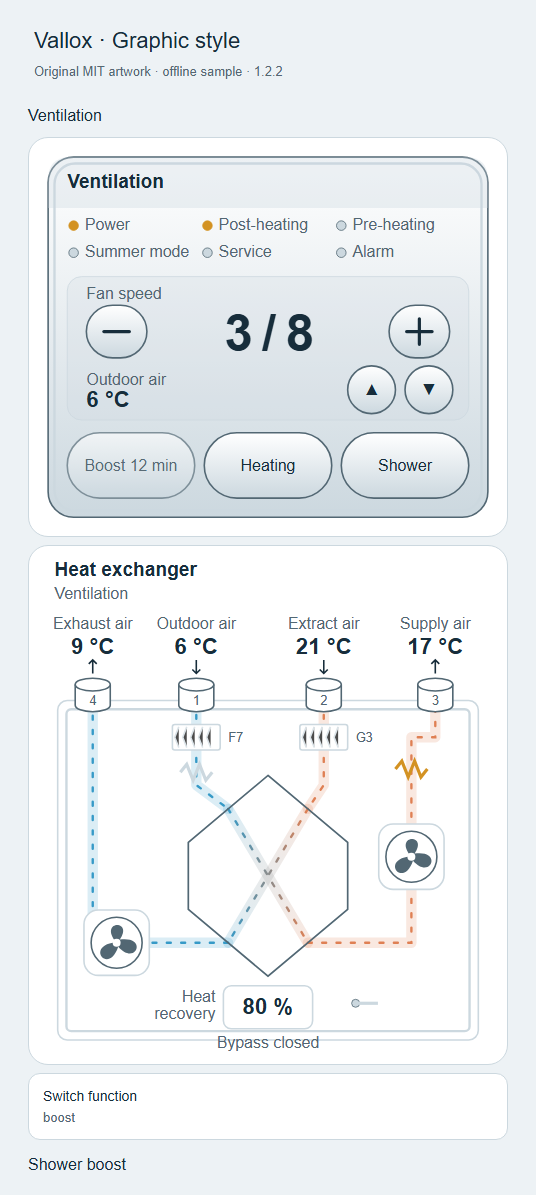
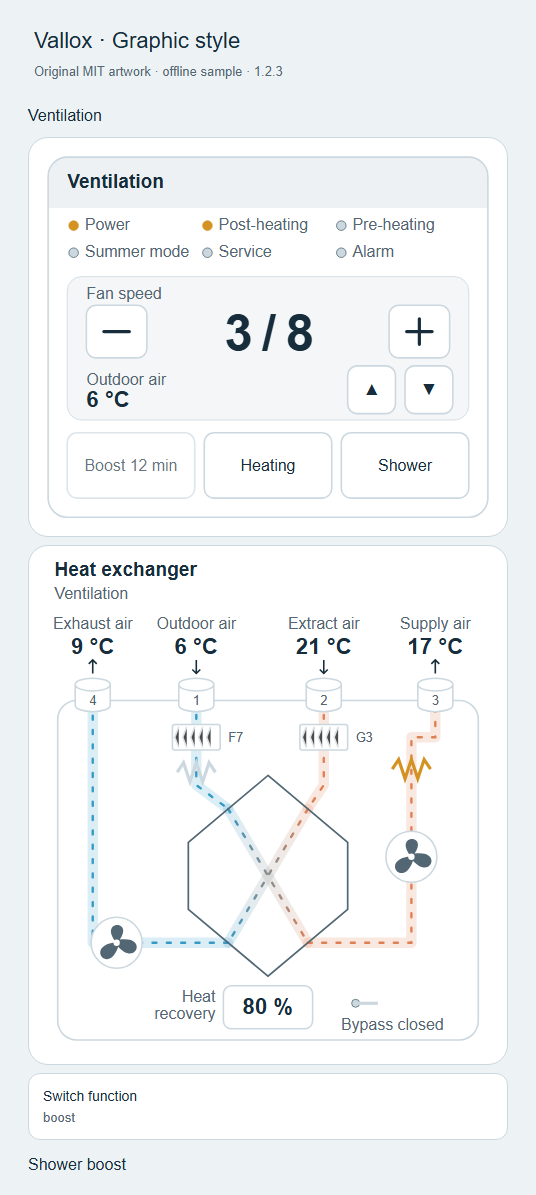
Vallox Dashboard 1.2.3: bring back the 1.2.1 look, keep the 1.2.2 sizing and heat-exchanger shape

diff --git a/dist/vallox-dashboard.js b/dist/vallox-dashboard.js
@@ -8,7 +8,7 @@
  *   - vallox (Home Assistant core, Vallox MV units over the network)
  * Built-in cards plus original inline SVG graphics. MIT licensed.
  */
-const VALLOX_DASHBOARD_VERSION = "1.2.2";
+const VALLOX_DASHBOARD_VERSION = "1.2.3";
 
 const TEXT = {
   en: {
@@ -451,11 +451,8 @@ const GRAPHIC_CSS = `
     border:1px solid var(--line); box-shadow:none; container-type:inline-size; }
   svg { display:block; width:100%; height:auto; font-family:inherit; }
   text { fill:currentColor; font-size:20px; } .muted { fill:var(--muted); font-size:20px; }
+  .duct { fill:var(--surface); stroke:var(--line); stroke-width:2; }
   .body,.button { fill:var(--surface); stroke:var(--line); stroke-width:2; }
-  .housing { fill:url(#housing-depth); stroke:var(--muted); stroke-width:2; }
-  .bezel { fill:none; stroke:var(--line); stroke-width:3; }
-  .button { fill:url(#button-depth); stroke:var(--muted); }
-  .duct { fill:var(--surface); stroke:var(--muted); stroke-width:2; }
   .strip { fill:var(--line); opacity:.35; } .lcd { fill:var(--line); fill-opacity:.22; stroke:var(--line); }
   .big { font-size:64px; font-weight:600; letter-spacing:-3px; }
   .title { font-size:24px; font-weight:600; } .value { font-size:28px; font-weight:600; }
@@ -485,7 +482,7 @@ const svgText = (x, y, text, cls = "", anchor = "start") =>
   `<text x="${x}" y="${y}" class="${cls}" text-anchor="${anchor}">${escapeGraphic(text)}</text>`;
 function graphicButton(x, y, w, h, label, action, disabled = false, glyph = label) {
   return `<g role="button" tabindex="${disabled ? -1 : 0}" aria-label="${escapeGraphic(label)}" aria-disabled="${disabled}" data-action="${action}">
-    <rect class="button" x="${x}" y="${y}" width="${w}" height="${h}" rx="${Math.min(w, h) / 2}"/>
+    <rect class="button" x="${x}" y="${y}" width="${w}" height="${h}" rx="12"/>
     ${["increase", "decrease"].includes(action)
       ? `<path class="control-symbol" d="M${x + w / 2 - 16} ${y + h / 2}h32${action === "increase" ? `M${x + w / 2} ${y + h / 2 - 16}v32` : ""}"/>`
       : svgText(x + w / 2, y + h / 2 + 7, glyph, "", "middle")}</g>`;
@@ -510,10 +507,7 @@ function renderControllerSvg(m) {
   const displayY = 106 + Math.ceil(leds.length / 3) * 34;
   const actionsY = displayY + 180 + 16;
   const height = actionsY + 82 + 48;
-  let content = `<defs>
-    <linearGradient id="housing-depth" x2="0" y2="1"><stop stop-color="var(--surface)"/><stop offset="1" stop-color="var(--line)"/></linearGradient>
-    <linearGradient id="button-depth" x2="0" y2="1"><stop stop-color="var(--surface)"/><stop offset="1" stop-color="var(--line)"/></linearGradient>
-    </defs><rect class="housing" x="24" y="24" width="552" height="${height - 48}" rx="32"/><rect class="bezel" x="32" y="32" width="536" height="${height - 64}" rx="26"/>
+  let content = `<rect class="body" x="24" y="24" width="552" height="${height - 48}" rx="24"/>
     <path class="strip" d="M52 24H548Q576 24 576 52V88H24V52Q24 24 52 24Z"/>`
     + svgText(48, 63, m.unit.name, "title");
   content += leds.map(([, label, active], i) => {
@@ -521,7 +515,7 @@ function renderControllerSvg(m) {
     return `<circle cx="${x}" cy="${y - 6}" r="6" class="led ${active ? "lit" : ""}"><title>${escapeGraphic(label)}</title></circle>`
       + svgText(x + 14, y, active === null ? `${label} —` : label, "muted");
   }).join("");
-  content += `<g transform="translate(0 ${displayY - 174})"><rect class="lcd recessed-lcd" x="48" y="174" width="504" height="180" rx="18"/>`
+  content += `<g transform="translate(0 ${displayY - 174})"><rect class="lcd" x="48" y="174" width="504" height="180" rx="18"/>`
     + svgText(72, 202, e.climate ? t.fan_speed : g.core_fan, "muted")
     + svgText(300, 267, e.climate ? `${m.level ?? "—"} / ${m.max}` :
       (m.fanPercentage ?? m.formatted("fan_speed", " %")), "big", "middle");
@@ -547,8 +541,7 @@ function renderExchangerSvg(m) {
   const { e, t, g } = m, bypass = m.on("summer_mode");
   const cell = "M300 288L400 372V456L300 540L200 456V372Z";
   let content = svgText(32, 38, g.exchanger, "title") + svgText(32, 66, m.unit.name, "muted")
-    + '<rect class="body unit-casing" x="36" y="194" width="528" height="426" rx="12"/>'
-    + '<rect class="bezel" x="47" y="205" width="506" height="404" rx="6"/>'
+    + '<rect class="body unit-casing" x="36" y="194" width="528" height="426" rx="24"/>'
     + '<defs><linearGradient id="extract-gradient" gradientUnits="userSpaceOnUse" x1="350" y1="330" x2="250" y2="498"><stop stop-color="var(--warm)"/><stop offset="1" stop-color="var(--cold)"/></linearGradient>'
     + '<linearGradient id="supply-gradient" gradientUnits="userSpaceOnUse" x1="250" y1="330" x2="350" y2="498"><stop stop-color="var(--cold)"/><stop offset="1" stop-color="var(--warm)"/></linearGradient></defs>'
     + '<path data-component="cell" class="cell" d="' + cell + '"/>';
@@ -561,8 +554,8 @@ function renderExchangerSvg(m) {
     + stream("exhaust", "M250 498H80V194", "cold", "motor_out")
     + stream("extract", "M350 330L250 498", "", "motor_out", true);
   if (bypass) {
-    // Keep the inlet beside the cell, then pass below the recovery badge to the bottom flap.
-    content += stream("supply", "M170 300V550H100V612H410V574H480", "cold", "motor_in", false, 'data-bypass-route="supply"');
+    // One right-angle crossing of the exhaust lane; keep parallel lanes well apart.
+    content += stream("supply", "M170 300V574H480", "cold", "motor_in", false, 'data-bypass-route="supply"');
   } else content += stream("supply", "M250 330L350 498", "", "motor_in", true);
   const ducts = [["exhaust",4,80,false],["outdoor",1,210,true],["extract",2,370,true],["supply",3,510,false]];
   for (const [role, number, x, incoming] of ducts) {
@@ -579,17 +572,17 @@ function renderExchangerSvg(m) {
   };
   if (e.outdoor) content += filter("F7",210,240,"supply");
   if (e.extract) content += filter("G3",370,240,"extract");
-  const fan = (role, x, y, streamName) => !e[role] ? "" : '<g data-fan="' + role + '" data-on-stream="' + streamName + '" transform="translate(' + x + ' ' + y + ')"><rect class="body" x="-41" y="-41" width="82" height="82" rx="18"/>'
-    + '<circle class="duct" r="32"/><g data-motor="' + role + '" class="' + (m.running(role) ? 'spin' : 'stopped') + '"><path fill="var(--muted)" d="M0 0C-24-28 22-30 4-4C40-9 24 30 2 5C-10 40-38 6-5 0Z"/></g><circle r="5" fill="var(--surface)"/></g>';
+  const fan = (role, x, y, streamName) => !e[role] ? "" : '<g data-fan="' + role + '" data-on-stream="' + streamName + '" transform="translate(' + x + ' ' + y + ')"><circle class="body" r="32" fill="var(--surface)"/>'
+    + '<g data-motor="' + role + '" class="' + (m.running(role) ? 'spin' : 'stopped') + '"><path fill="var(--muted)" d="M0 0C-24-28 22-30 4-4C40-9 24 30 2 5C-10 40-38 6-5 0Z"/></g><circle r="4" fill="var(--surface)"/></g>';
   content += fan("motor_in",480,390,"supply") + fan("motor_out",110,498,"extract")
     + '<path class="cell-outline" d="' + cell + '"/>';
-  const heater = (role, x, y) => !e[role] ? "" : '<g data-on-stream="supply"><title>' + escapeGraphic(t[role]) + '</title><path data-heater="' + role + '" class="heater ' + (m.on(role) ? 'hot' : '') + '" d="M' + (x-20) + ' ' + y + 'l8 -10 8 20 8 -20 8 20 8 -10"/></g>';
+  const heater = (role, x, y) => !e[role] ? "" : '<g data-on-stream="supply"><title>' + escapeGraphic(t[role]) + '</title><path data-heater="' + role + '" class="heater ' + (m.on(role) ? 'hot' : '') + '" d="M' + (x-24) + ' ' + y + 'l8 -12 8 24 8 -24 8 24 8 -24 8 12"/></g>';
   content += heater("front_heating",210,284) + heater("post_heating",480,280);
-  if (e.efficiency || [e.outdoor,e.extract,e.exhaust].every(Boolean)) content += '<g aria-label="' + escapeGraphic(t.efficiency) + '"><rect class="cell" x="244" y="552" width="112" height="54" rx="10"/>'
+  if (!bypass && (e.efficiency || [e.outdoor,e.extract,e.exhaust].every(Boolean))) content += '<g aria-label="' + escapeGraphic(t.efficiency) + '"><rect class="cell" x="244" y="552" width="112" height="54" rx="10"/>'
     + g.recovery_label.map((label,i) => svgText(234,572+i*22,label,"recovery-label","end")).join("")
     + svgText(300,587,m.efficiency === null ? "—" : Math.round(m.efficiency)+" %","value","middle") + '</g>';
   if (e.summer_mode) content += '<g data-bypass="' + (bypass ? 'open' : 'closed') + '"><circle class="led" cx="410" cy="574" r="5"/><path class="heater ' + (bypass ? 'hot' : '') + '" d="' + (bypass ? 'M410 574l22 -20' : 'M410 574h28') + '"/></g>'
-    + svgText(300,630,m.value("summer_mode") === null ? g.bypass + " —" : bypass ? g.bypass_open : g.bypass_closed,"muted","middle");
+    + svgText(bypass ? 300 : 456,608,m.value("summer_mode") === null ? g.bypass + " —" : bypass ? g.bypass_open : g.bypass_closed,"muted","middle");
   if (m.config.show_status !== false) {
     if (e.climate || e.fan_speed || e.fan) content += '<g aria-label="' + escapeGraphic(t.fan_speed) + '">' + svgText(32,655,(e.climate ? (m.level ?? "—")+" / "+m.max : m.fanPercentage ?? m.formatted("fan_speed"," %")),"muted") + '</g>';
     if (m.boost && m.config.show?.boost_remaining !== false) content += svgText(568,655,g.boost+' · '+(e.boost_remaining ? m.formatted("boost_remaining",' '+t.minutes) : g.active),"muted","end");

diff --git a/tools/render/index.html b/tools/render/index.html
@@ -21,7 +21,7 @@
   .heading { font-size:16px; margin:8px 0 4px; }
   #actions { font-size:12px; margin:16px 6px; }
 </style>
-<header><h1>Vallox · Graphic style</h1><p>Original MIT artwork · offline sample · 1.2.2</p></header>
+<header><h1>Vallox · Graphic style</h1><p>Original MIT artwork · offline sample · 1.2.3</p></header>
 <main id="cards"></main><div id="actions" role="status"></div>
 <script src="sample-data.js"></script>
 <script src="../../dist/vallox-dashboard.js"></script>

diff --git a/README.md b/README.md
@@ -4,7 +4,7 @@
 [![Release](https://img.shields.io/github/v/release/silviuk/vallox-dashboard.svg)](https://github.com/silviuk/vallox-dashboard/releases)
 [![Validate](https://github.com/silviuk/vallox-dashboard/actions/workflows/validate.yml/badge.svg)](https://github.com/silviuk/vallox-dashboard/actions/workflows/validate.yml)
 
-A Lovelace UI for **Vallox ventilation units** (MVHR / heat-recovery ventilation). Current release: **1.2.1**.
+A Lovelace UI for **Vallox ventilation units** (MVHR / heat-recovery ventilation). Current release: **1.2.3**.
 
 It ships as **section, view and dashboard strategies** under `custom:vallox-ventilation`. The UI discovers your entities and skips anything missing or disabled, so there is nothing you have to wire up by hand. The default style uses built-in Home Assistant cards (tile, heading, button, history-graph, markdown). An opt-in graphic style adds one bundled custom card with original inline SVG artwork.
 
@@ -34,7 +34,7 @@ Supported integrations (auto-discovered):
 - **Temperature flow strip:** outdoor → supply, heat recovery, extract → exhaust, when all four temperatures exist. Defaults on for units that already expose 1.2 extras; older units keep their original layout unless you opt in.
 - **Optional shower boost:** timed fan-level buttons, plus countdown and cancel while active, when the package entities exist.
 - **Optional auto humidity boost:** enable toggle and helper tiles when those helpers exist.
-- **Graphic style (1.2.2):** digital controller panel and heat-exchanger diagram (see below).
+- **Graphic style (1.2.3):** digital controller panel and heat-exchanger diagram (see below).
 - English and German labels, taken from your Home Assistant language. Light and dark themes follow HA CSS variables.
 
 ## Installation
@@ -209,7 +209,7 @@ You can also generate one for your own entities in the browser console of your d
 
 ## Graphic style
 
-Add `style: graphic` to any section, view or dashboard strategy (1.2.0+; phone layout and artwork updated in 1.2.2):
+Add `style: graphic` to any section, view or dashboard strategy (1.2.0+; phone layout and artwork updated in 1.2.3):
 
 ```yaml
 strategy:
@@ -245,6 +245,7 @@ The card picker lists **Vallox graphic**; change `view` in YAML to select the ex
 
 ### Digital controller
 
+The 1.2.3 controller restores the 1.2.1 flat panel, header strip, LCD and rounded rectangular buttons, with the full-width sizing introduced in 1.2.2.
 The panel shows a read-only power indicator and available heater, bypass, service,
 alarm, CO₂ and humidity indicators. Its LCD shows fan level with adjacent −/+ controls and a secondary readout;
 ▲/▼ cycle available temperatures, recovery, built-in boost time and fault code locally.
@@ -259,14 +260,15 @@ All writes require a click/tap or Enter/Space; no service is called while render
 ### Heat exchanger
 
 The exchanger is an abstract front-view schematic: four top ducts, a tall central cell,
-extract fan lower left, supply fan right, pre-heater beside the F7 outdoor filter at
-lower right, post-heater on the supply side, and a bottom bypass flap.
+extract fan lower left, supply fan upper right, pre-heater below the F7 outdoor filter,
+post-heater on the supply outlet, and a bottom bypass flap.
 It is an orientation aid, not an installation or physical duct-routing diagram.
-In 1.2.2 round duct collars follow Modell R numbering (left to right: 4 exhaust,
+In 1.2.3 round duct collars follow Modell R numbering (left to right: 4 exhaust,
 1 outdoor, 2 extract, 3 supply; 4 and 2 are farther back). F7 and G3 filters are pleated.
 The streams cross the tall hexagonal cell between opposite faces through diagonal channels
-with subtle plates and warm/cold gradients; the heat recovery badge sits beside the cell,
-and heater labels sit beside their symbols.
+with warm/cold gradients, using the restored 1.2.1 colours, strokes and filled fan circles.
+The heat recovery badge sits below the cell when bypass is closed. While bypass is open,
+the badge is hidden and supply follows a clear bottom route with one right-angle exhaust crossing.
 Action buttons sit in one row of three on desktop and phones (at least 40 px high at the
 documented 430 px phone layout; labels shorten on narrow cards). Boost time appears on its button.
 Directional dashed streams and fan animation follow fan level and stop when the unit

diff --git a/CHANGELOG.md b/CHANGELOG.md
@@ -1,5 +1,11 @@
 # Changelog
 
+## 1.2.3
+
+- Restore the 1.2.1 look and colours for both drawings by user request, keeping the 1.2.2 full-width sizing and upright exchanger structure.
+- Give exchanger fans filled circular backgrounds, move the bypass label clear of the casing edge, and tidy the open bypass route with one right-angle crossing and no recovery badge overlap.
+- Refresh graphic documentation, offline preview version, five screenshots and regression checks.
+
 ## 1.2.2
 
 - Fix phone sections layout: stack full-width graphics with automatic rows; widen the remaining switch-function tile. Use proportional SVG sizing and view-specific masonry estimates.
